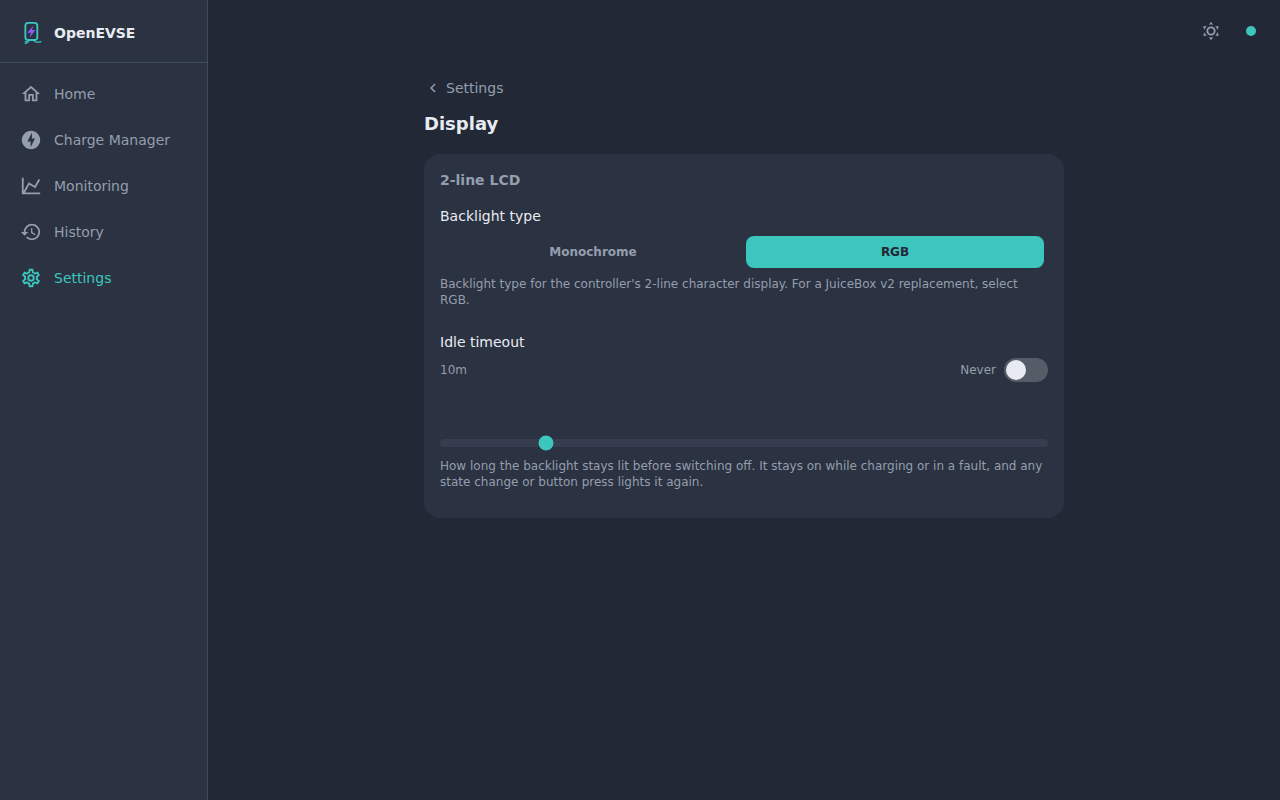
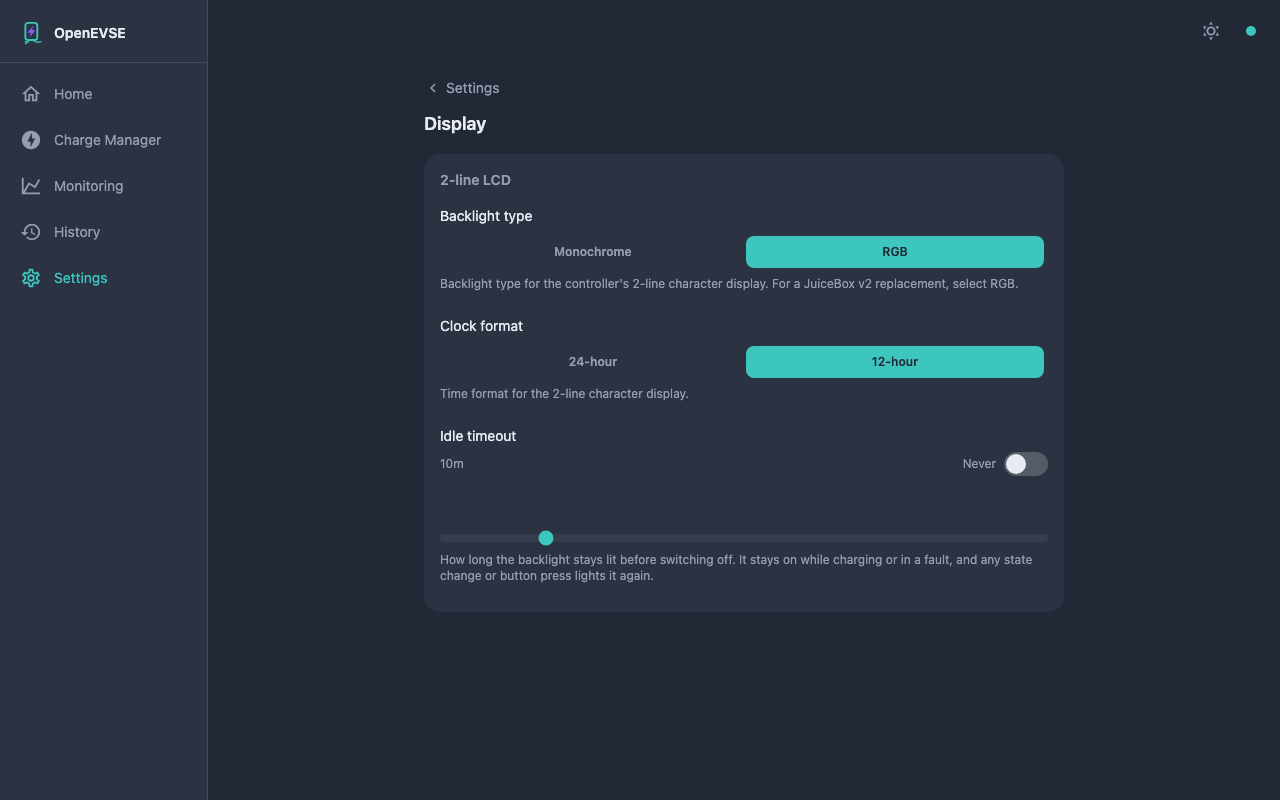
fix: add a 24-hour clock option for the 2-line LCD (#217)
The character display has always shown 12-hour time and Settings had no control for it. The new clock control posts lcd_12h_clock and defaults to 12-hour.

diff --git a/src/routes/settings/__tests__/Display.test.js b/src/routes/settings/__tests__/Display.test.js
@@ -107,6 +107,14 @@ describe('Display page', () => {
     expect(queryByText('config.display.lcd_timeout_desc')).toBeNull()
   })
 
+  it('shows 12-hour for the character LCD and writes 24-hour when picked', async () => {
+    config_store.set({ lcd_type: 'rgb', lcd_12h_clock: true })
+    const { getByText } = render(Display)
+    expect(getByText('config.display.clock_12')).toHaveAttribute('aria-pressed', 'true')
+    await fireEvent.click(getByText('config.display.clock_24'))
+    expect(httpAPI).toHaveBeenCalledWith('POST', '/config', JSON.stringify({ lcd_12h_clock: false }))
+  })
+
   it('defaults the 2-line LCD selector to RGB and writes on change', async () => {
     config_store.set({ lcd_type: 'rgb' })
     const { getByText } = render(Display)

diff --git a/src/routes/settings/Display.svelte b/src/routes/settings/Display.svelte
@@ -194,6 +194,20 @@
         />
       </FormField>
 
+      {#if 'lcd_12h_clock' in cfg}
+        <FormField
+          label={$_('config.display.clock')}
+          description={$_('config.display.lcd_clock_desc')}
+          status={$ss.lcd_12h_clock ?? 'idle'}
+        >
+          <SegmentedControl
+            options={clockOptions}
+            value={cfg.lcd_12h_clock === false ? '24' : '12'}
+            onchange={(v) => form.saveField('lcd_12h_clock', v === '12')}
+          />
+        </FormField>
+      {/if}
+
       {#if hasTimeout && !hasTft}
         {@render timeoutField($_('config.display.lcd_timeout_desc'))}
       {/if}
